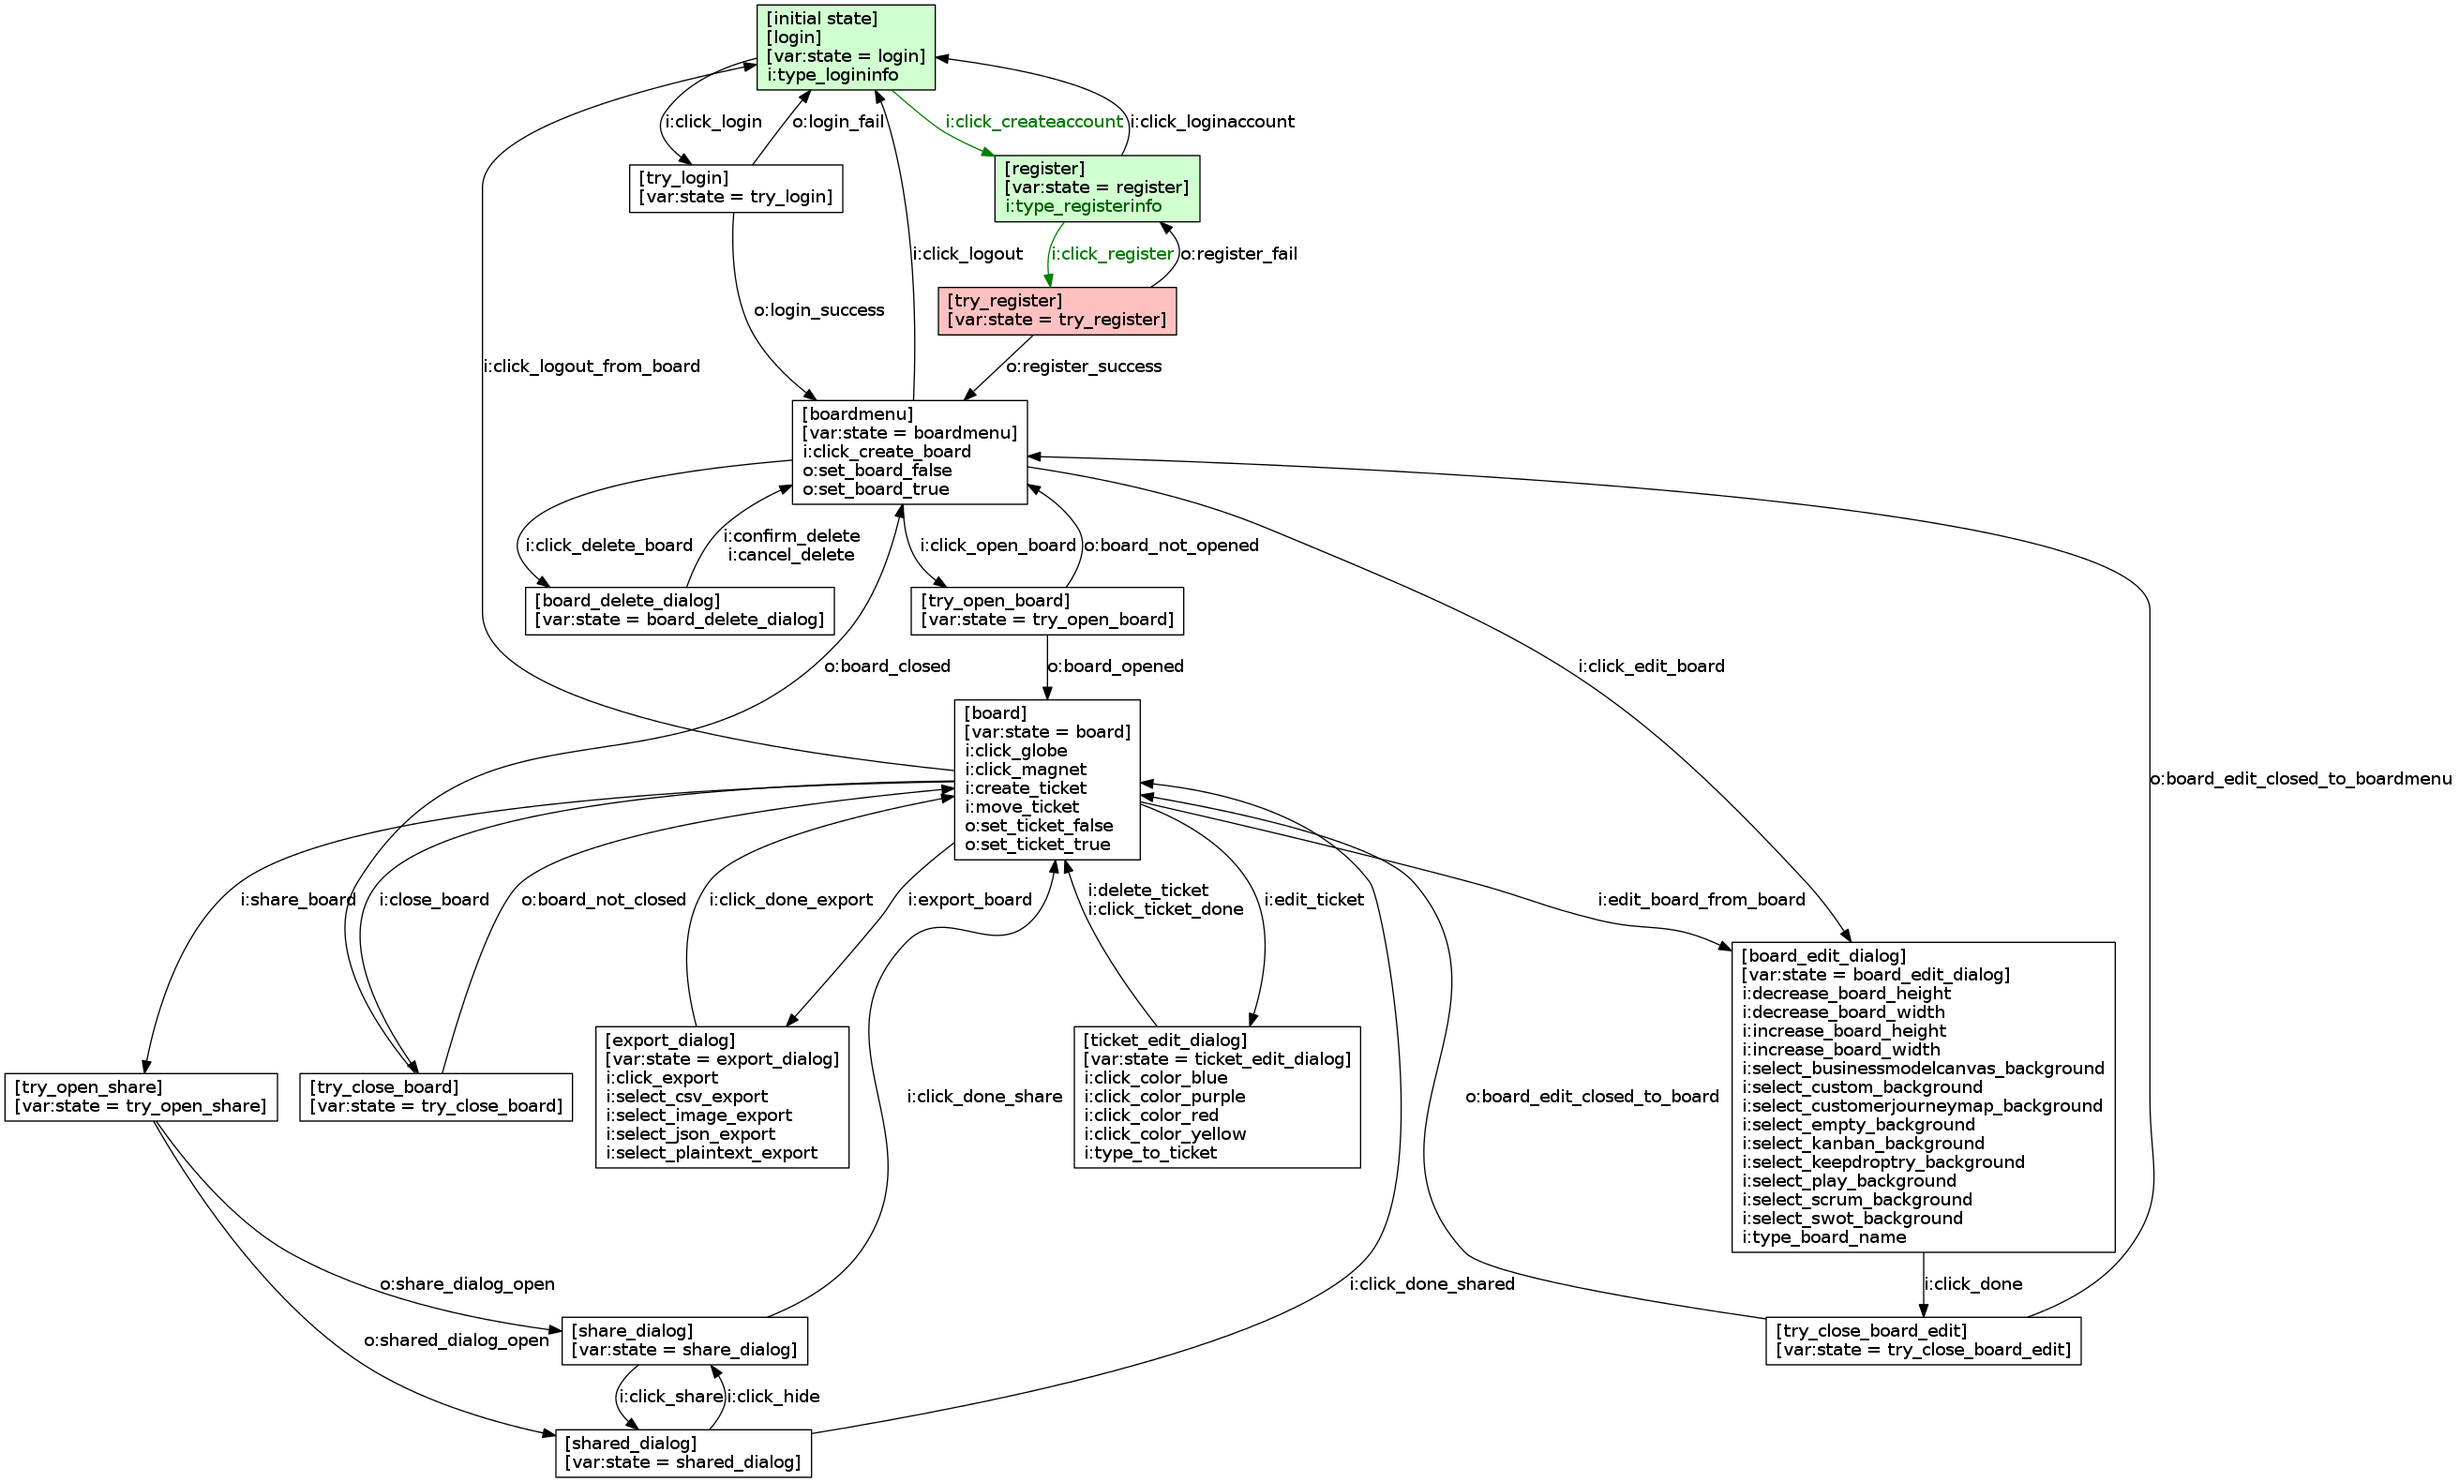
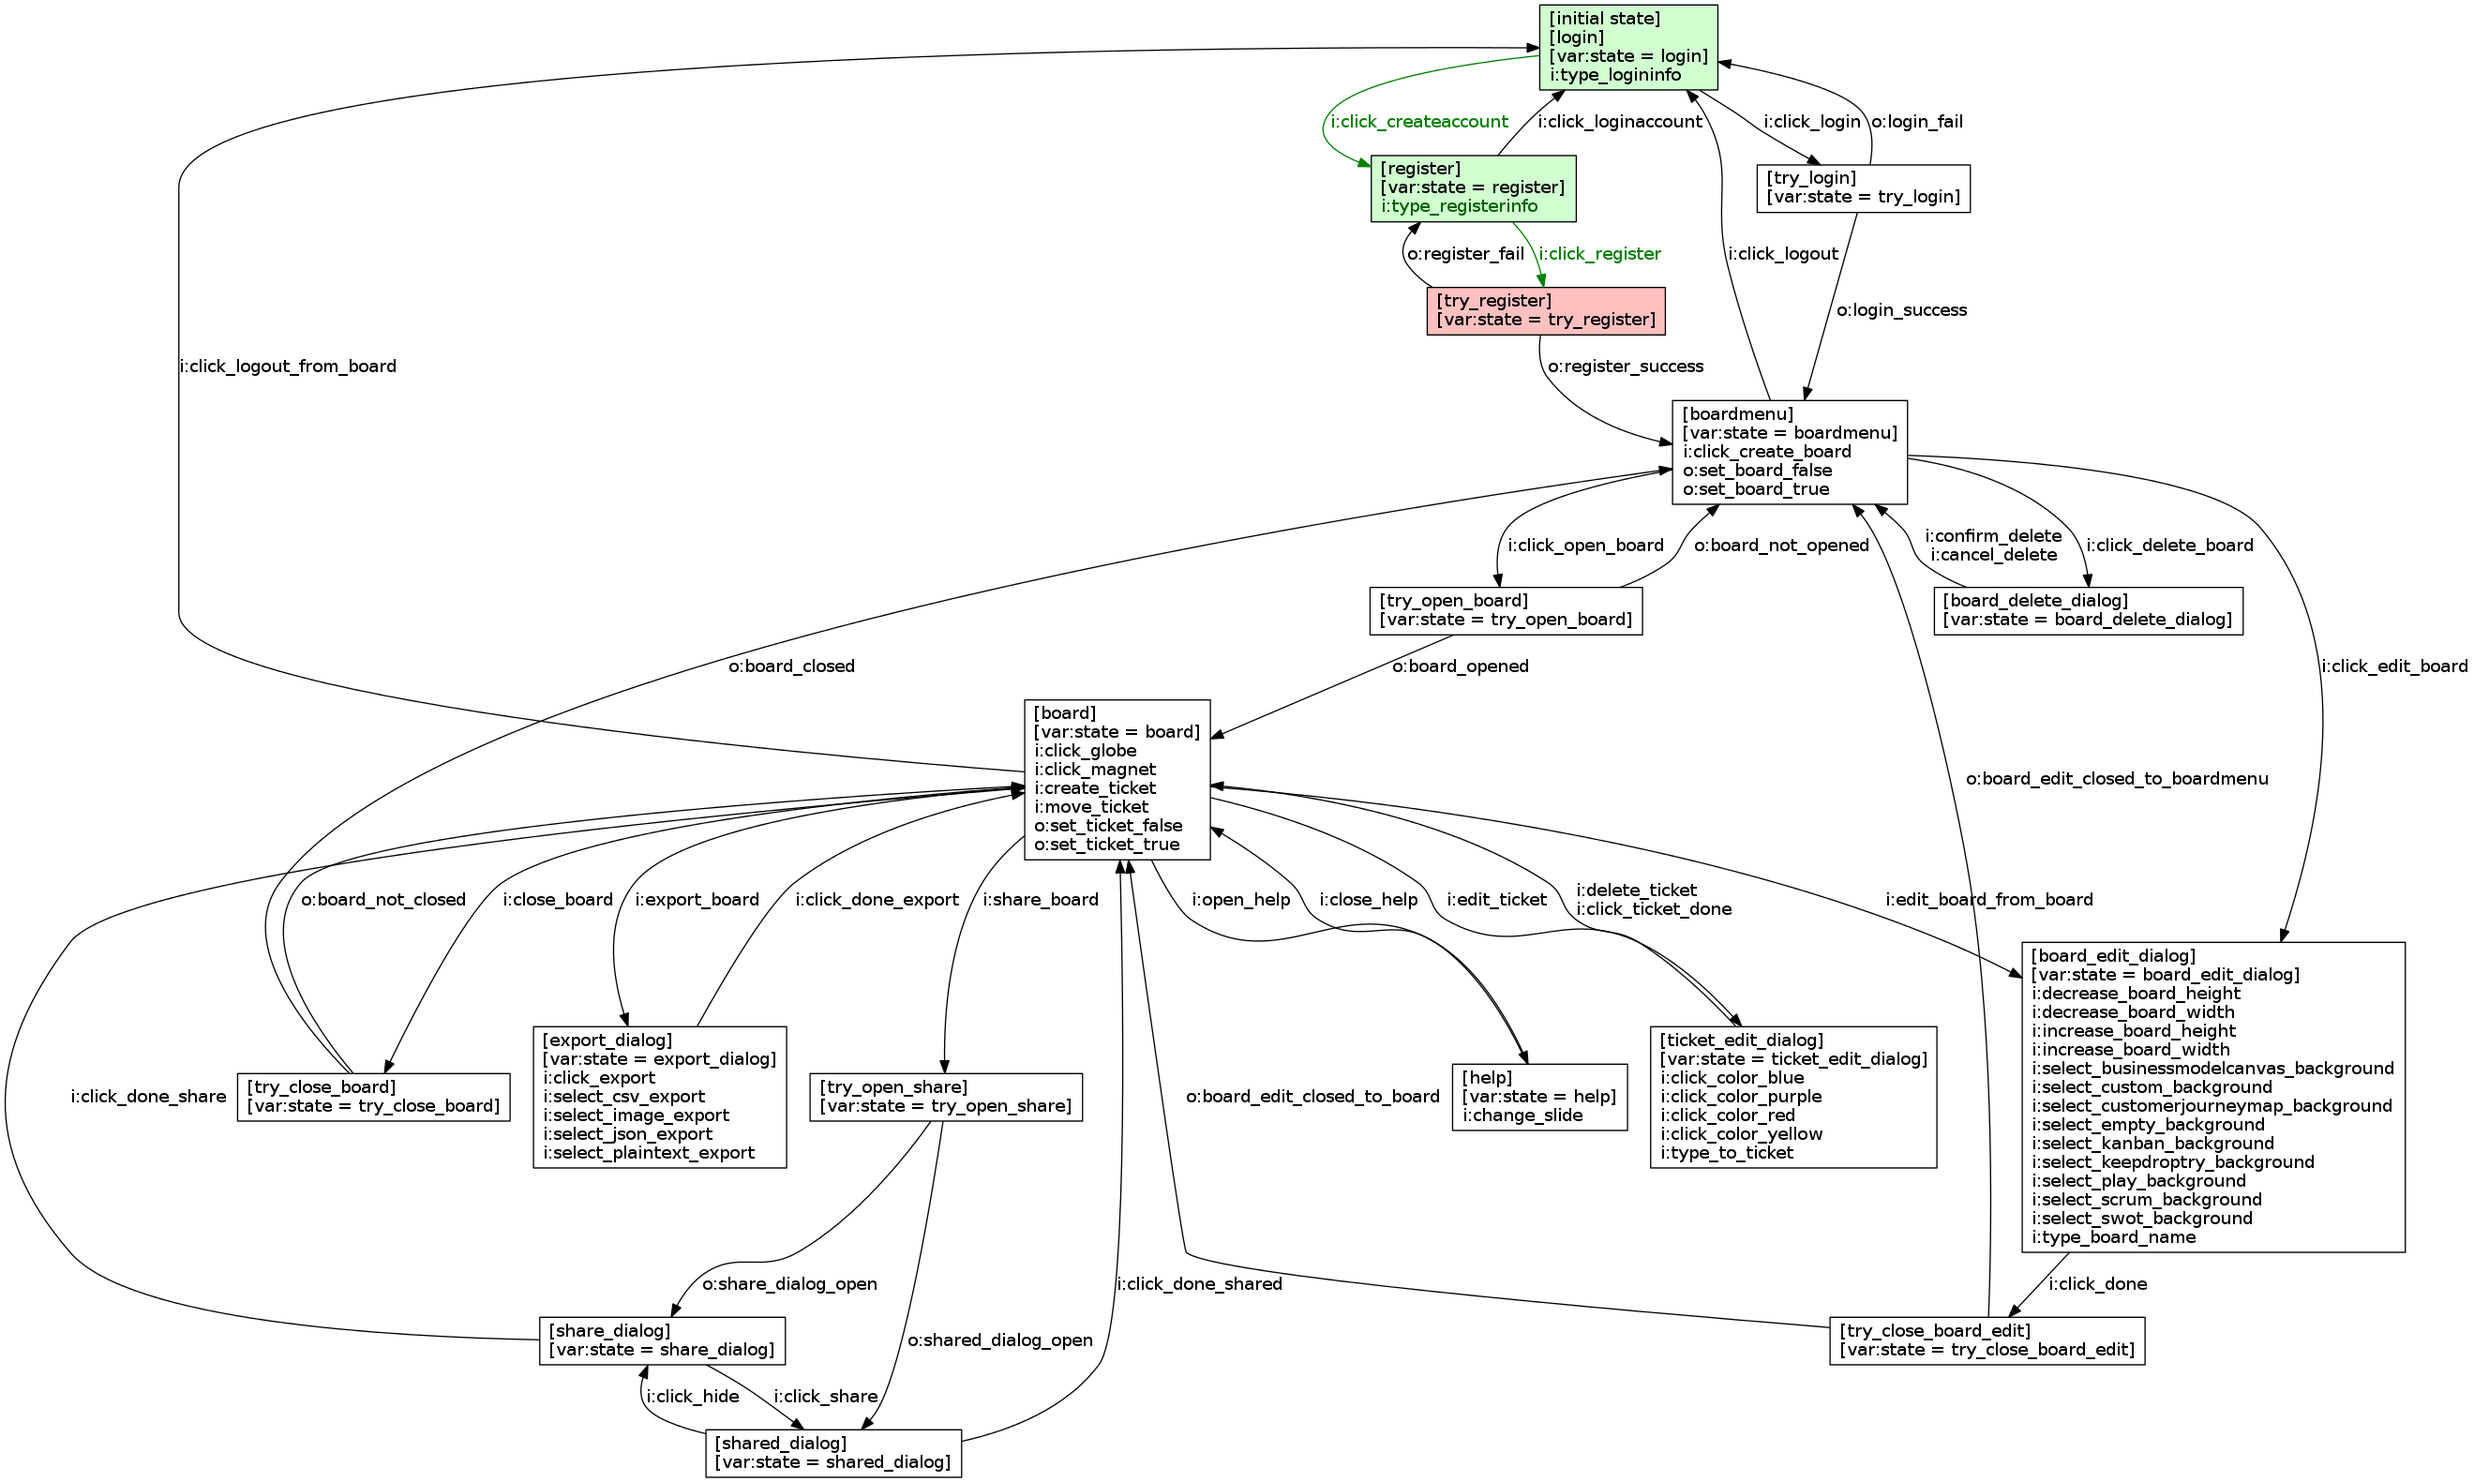
Add help model

diff --git a/fmbt/Contriboard/adapters/seleniumadapter.py b/fmbt/Contriboard/adapters/seleniumadapter.py
@@ -92,20 +92,6 @@ def isElement(xpath):
 	except:
 		return False
 
-def checkAlert():
-	try:
-		WebDriverWait(driver,pollTime).until(EC.alert_is_present())
-		if Ec.alert_is_present() == False:
-			return False
-		else:
-			return True
-	except:
-		return False
-
-def confirmAlert():
-		if checkAlert():
-				Alert(driver).accept()
-
 def wait(time=pollTime):
 	sleep(time)
 
@@ -115,9 +101,6 @@ def homePage():
 
 def refreshPage():
 	driver.refresh()
-
-def clearText():
-	return
 
 def resetCursor():
 	return
@@ -260,6 +243,11 @@ def moveTicket():
 	xdest = random.randint(0, board.size.get('width') - ticket.size.get('width'))
 	ydest = random.randint(0, board.size.get('height') - ticket.size.get('height'))
 	AC(driver).click_and_hold(ticket).move_to_element_with_offset(board, xdest, ydest).release(ticket).perform()
+	wait()
+
+def openHelp():
+	rs()
+	driver.find_element_by_xpath("//span[@class='fa fa-fw fa-info']").click()
 	wait()
 
 #boardedit
@@ -474,6 +462,19 @@ def deleteTicket():
 def ticketDone():
 	rs()
 	driver.find_element_by_xpath("//button[@class='btn-primary']").click()
+	wait()
+
+# help
+
+def changeSlide():
+	rs()
+	slides = driver.find_elements_by_xpath("//button")
+	random.choice(slides).click()
+	wait()
+
+def clickCloseHelp():
+	rs()
+	driver.find_element_by_xpath("//span[@class='fa fa-fw fa-times']").click()
 	wait()
 
 # checks
